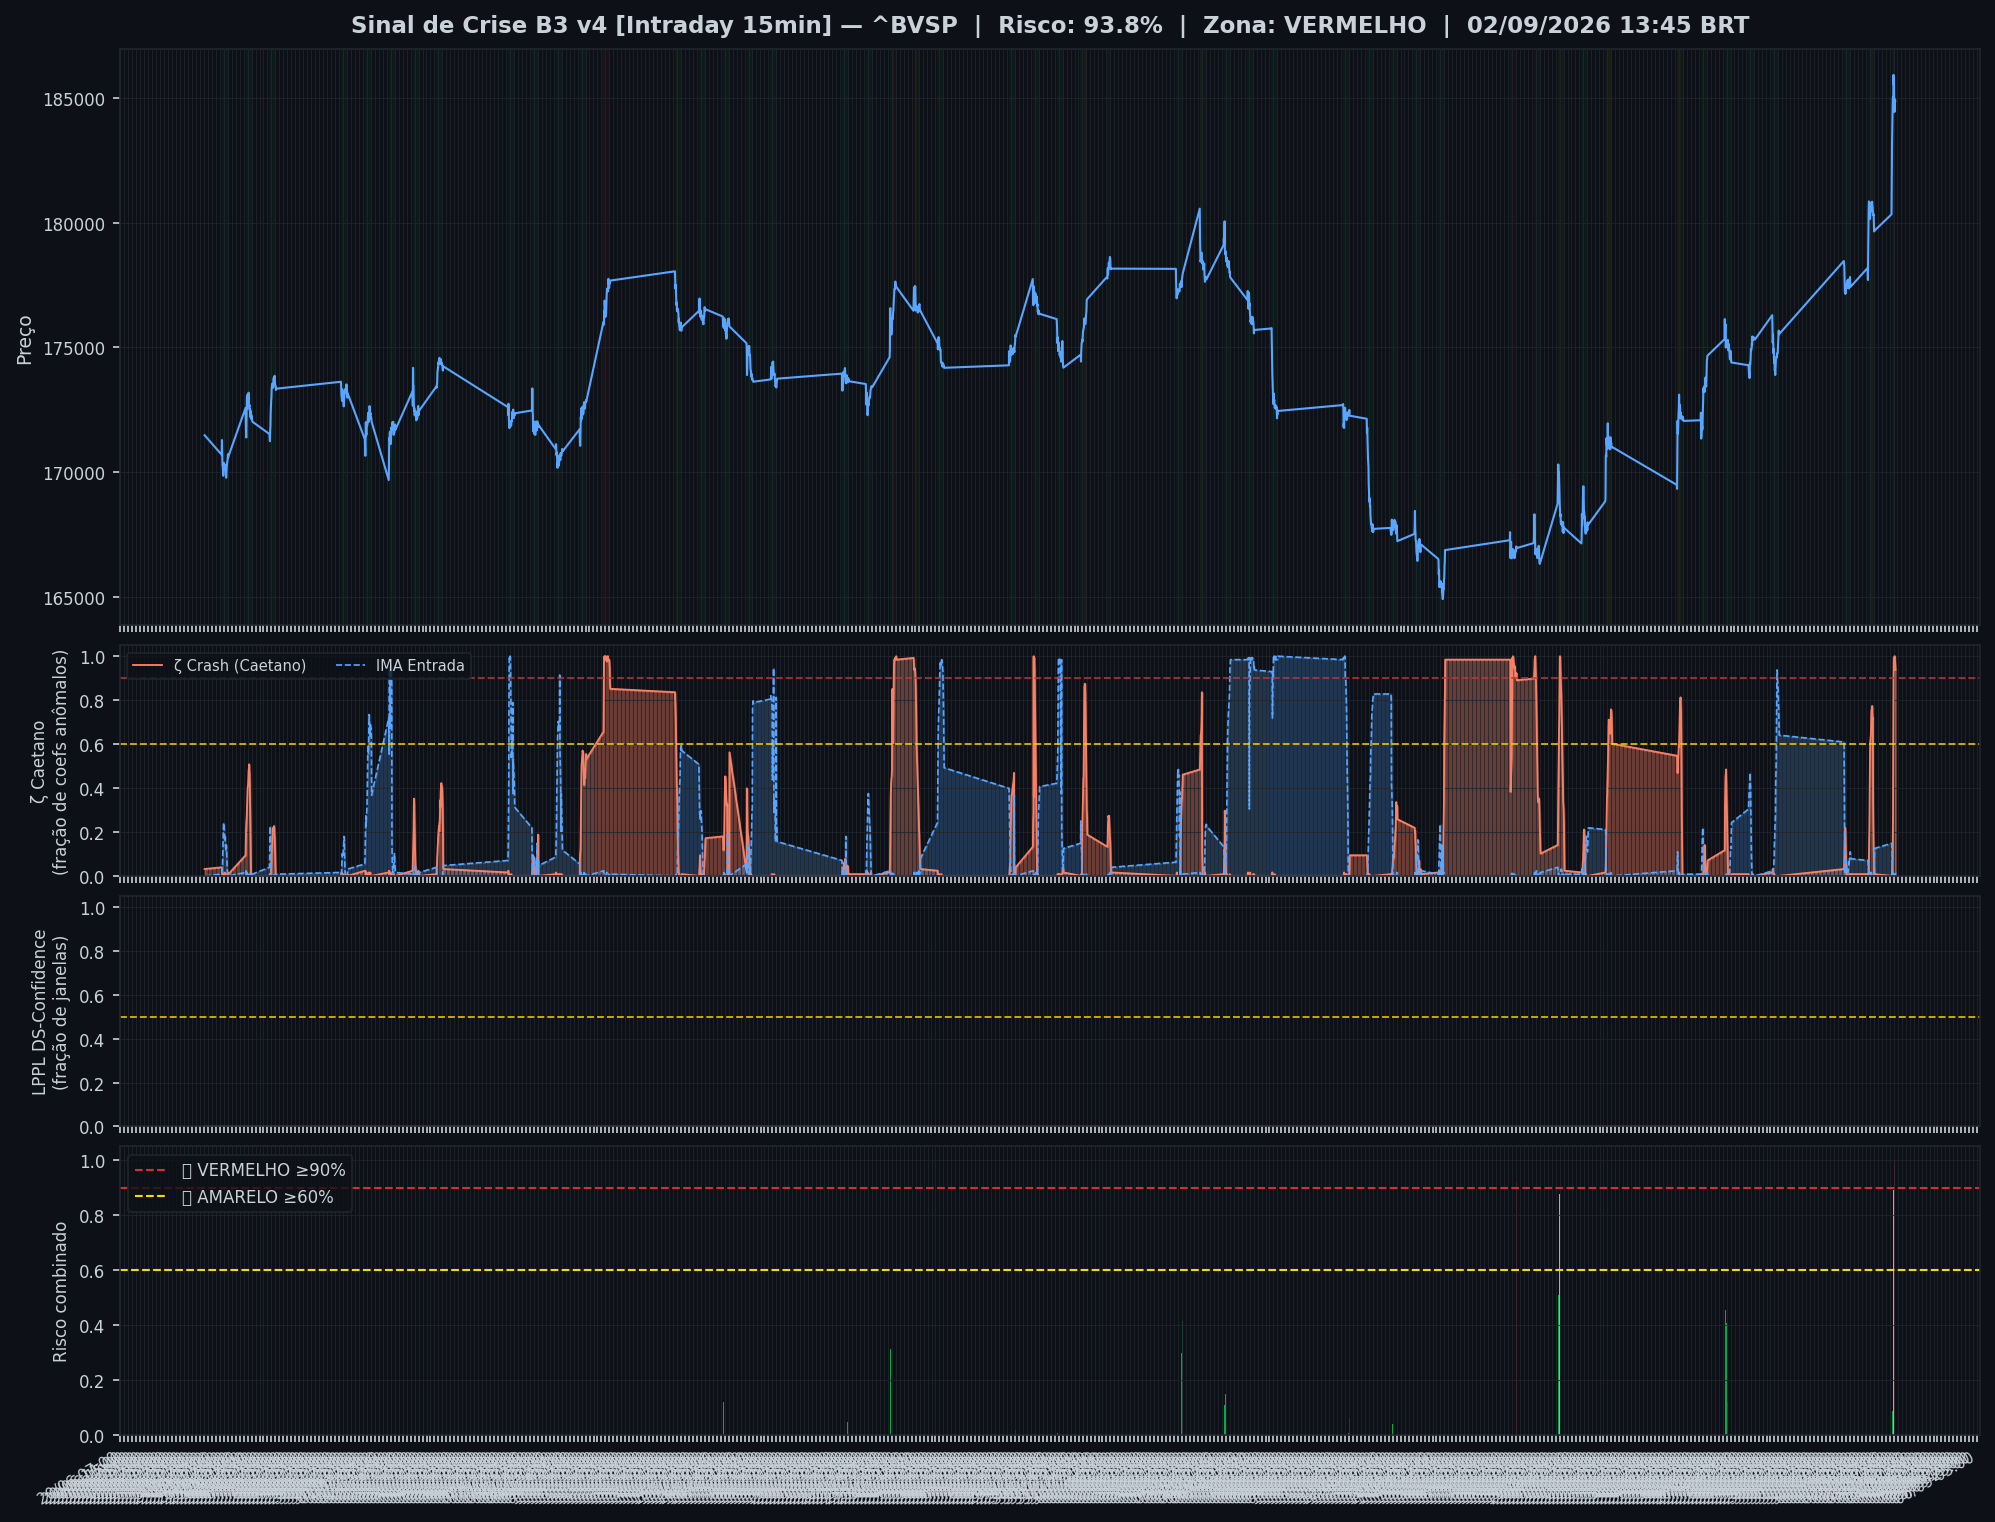
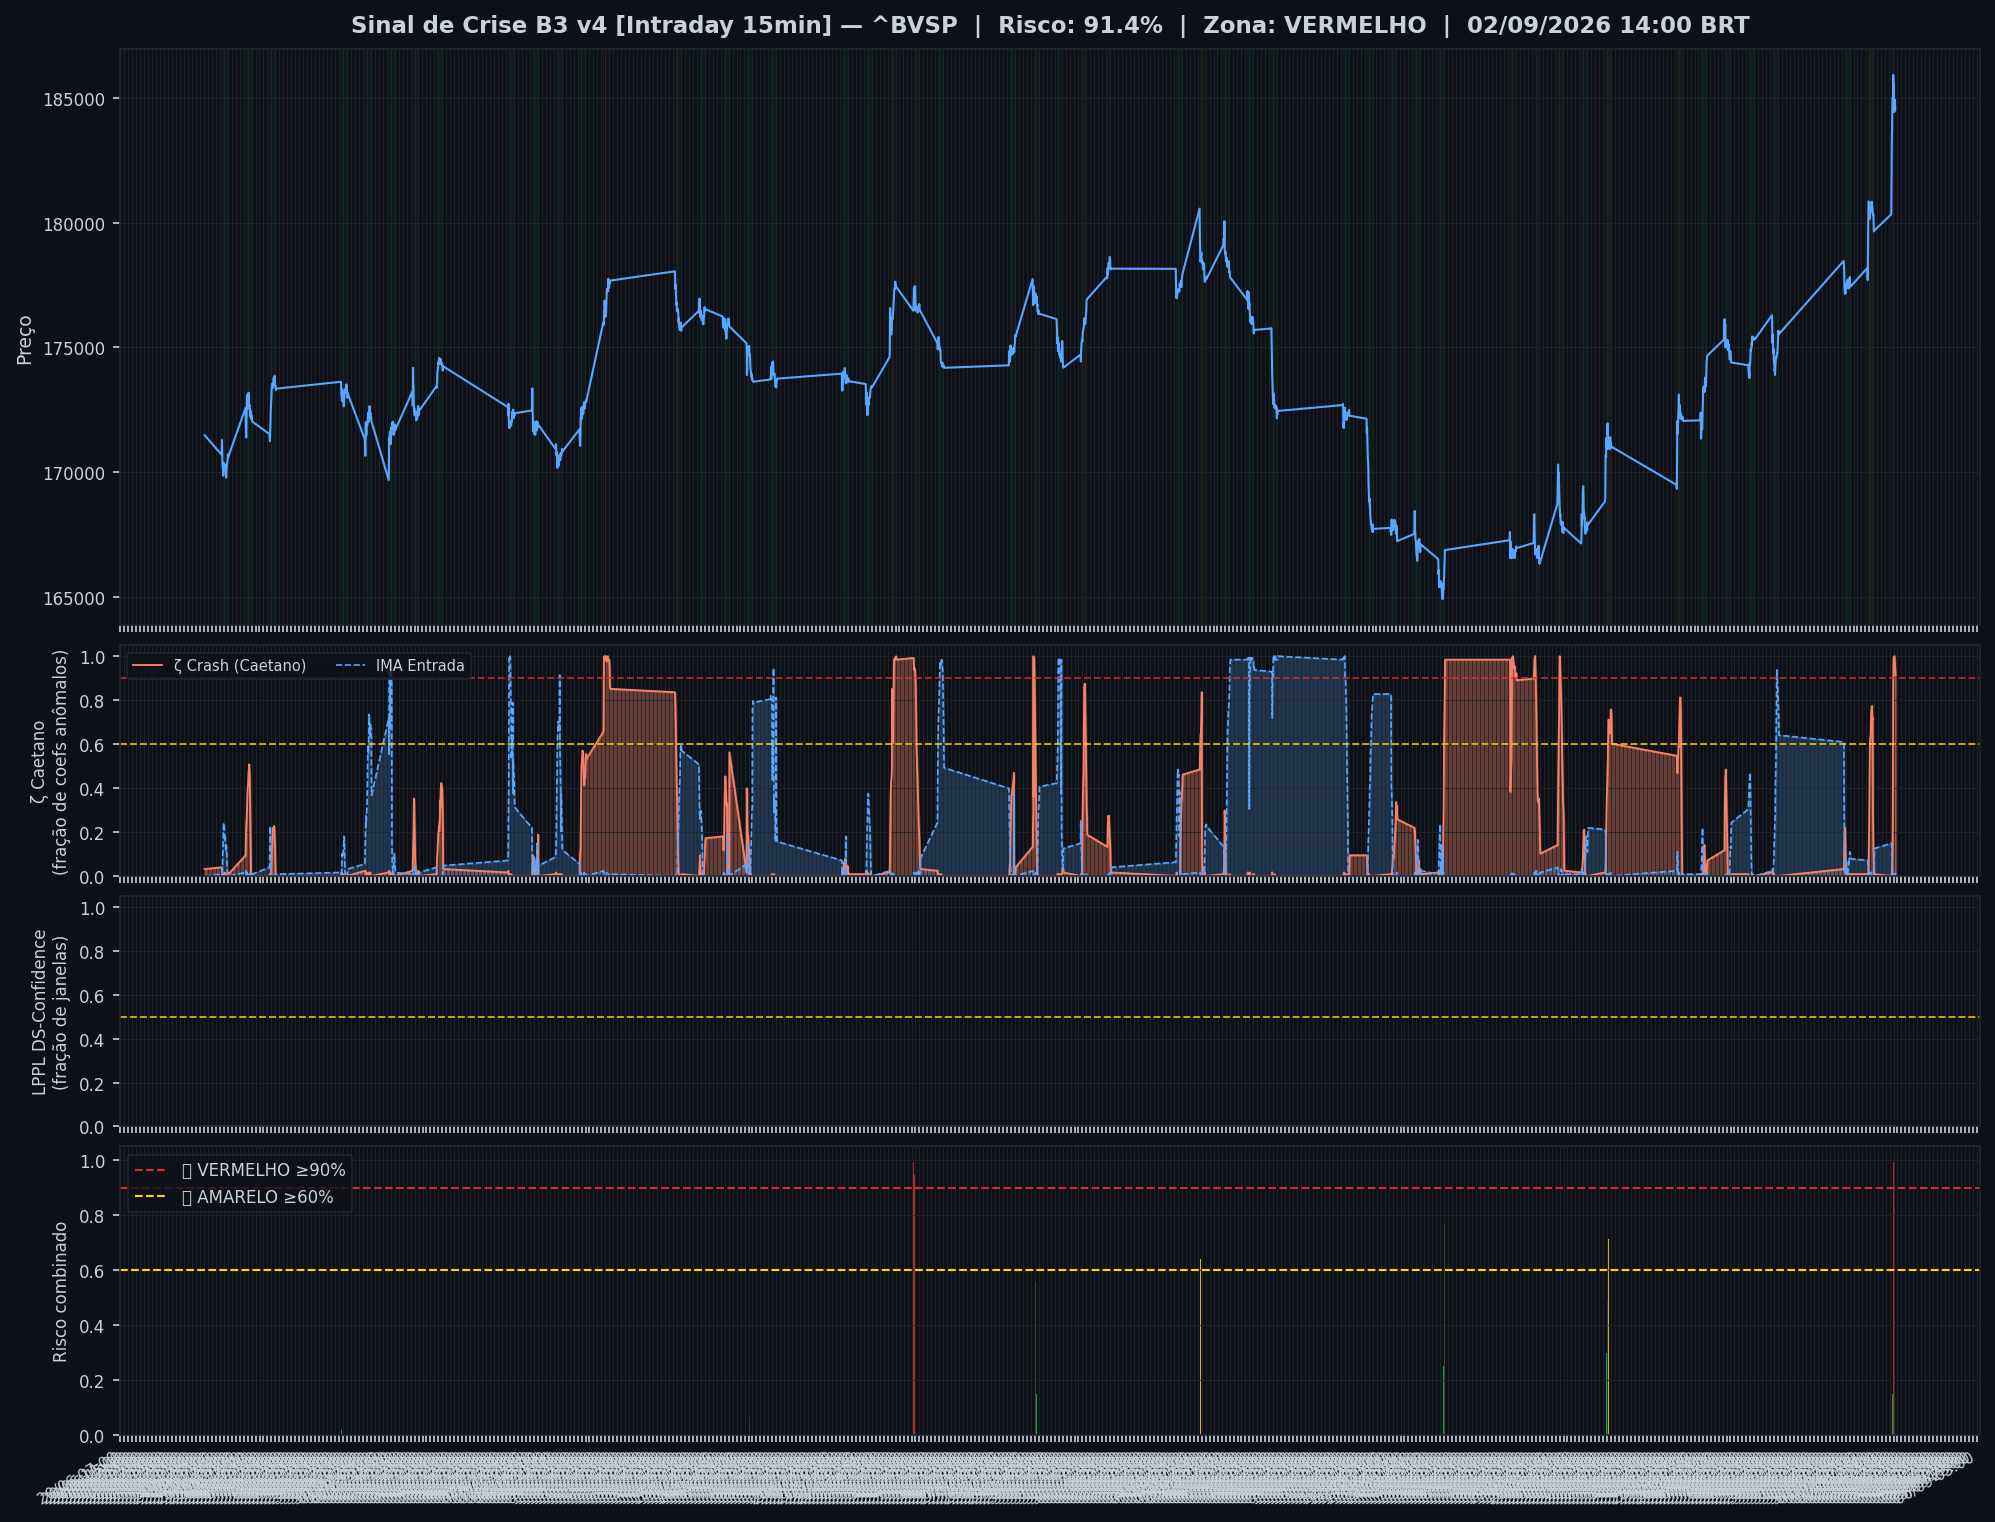
🤖 Auto: Sinal 02/09/2026 14:45

diff --git a/content/intraday/2026-09-02.md b/content/intraday/2026-09-02.md
@@ -1,20 +1,20 @@
 ---
-title: "🔴 Intraday 02/09/2026 13:45 BRT — VERMELHO"
+title: "🔴 Intraday 02/09/2026 14:00 BRT — VERMELHO"
 date: 2026-09-02
 tags: [intraday]
 ---
 
-> [!danger] 🔴 **VERMELHO** — Risco 94% · ▼ -2 p.p. vs leitura anterior
-> `███████████████████░`
+> [!danger] 🔴 **VERMELHO** — Risco 91% · ▼ -2 p.p. vs leitura anterior
+> `██████████████████░░`
 > ALERTA DE CRISE — padrão pré-crise detectado.
 
 
 | Indicador | Valor |
 |---|---|
-| 🔴 ζ Crash — severidade da queda em curso | **94%** |
-| 🔵 ζ Entrada — estrutura de fundo | 2% |
+| 🔴 ζ Crash — severidade da queda em curso | **91%** |
+| 🔵 ζ Entrada — estrutura de fundo | 1% |
 | 🫧 LPPL DS-Confidence | 0% |
-| 📊 Ibovespa | 184.884 pts |
+| 📊 Ibovespa | 184.537 pts |
 
 ![Gráfico do sinal](../graficos/sinal_intraday.png)
 
@@ -22,6 +22,7 @@ tags: [intraday]
 
 | Data | Zona | Risco | IMA Crash | Entrada | LPPL |
 |---|---|---|---|---|---|
+| 2026-09-02 14:00 | 🔴 VERMELHO | **91%** | 91% | 1% | 0% |
 | 2026-09-02 13:45 | 🔴 VERMELHO | **94%** | 94% | 2% | 0% |
 | 2026-09-02 13:30 | 🔴 VERMELHO | **96%** | 96% | 1% | 0% |
 | 2026-09-02 13:15 | 🔴 VERMELHO | **98%** | 98% | 0% | 0% |
@@ -51,7 +52,6 @@ tags: [intraday]
 | 2026-09-01 14:15 | 🟡 AMARELO | **77%** | 77% | 0% | 0% |
 | 2026-09-01 14:00 | 🟡 AMARELO | **77%** | 77% | 0% | 0% |
 | 2026-09-01 13:45 | 🟡 AMARELO | **76%** | 76% | 0% | 0% |
-| 2026-09-01 13:30 | 🟡 AMARELO | **75%** | 75% | 1% | 0% |
 
 ## Monitor Multi-Ativo
 
@@ -59,37 +59,37 @@ tags: [intraday]
 
 | Zona | Ativo | Setor | IMA Crash | IMA Entrada |
 |---|---|---|---|---|
-| 🟢 | **USD/BRL** | Câmbio | 3.9% | 4.7% |
-| 🟢 | **VALE** | Mineração | 2.3% | 9.4% |
-| 🟢 | **PETROBRAS** | Petróleo | 2.3% | 9.4% |
-| 🟢 | **ITAUUNIBANCO** | Financeiro | 2.3% | 9.4% |
-| 🟢 | **PETROBRAS** | Petróleo | 2.3% | 9.4% |
-| 🟢 | **AXIA ENERGIA** | Energia | 2.3% | 9.4% |
-| 🟢 | **BRADESCO** | Financeiro | 2.3% | 9.4% |
-| 🟢 | **B3** | Financeiro | 2.3% | 9.4% |
-| 🟢 | **ITAUSA** | Financeiro | 2.3% | 9.4% |
-| 🟢 | **WEG** | Industrial | 2.3% | 9.4% |
-| 🟢 | **SABESP** | Saneamento | 2.3% | 9.4% |
-| 🟢 | **BTGP BANCO** | Financeiro | 2.3% | 9.4% |
-| 🟢 | **AMBEV S/A** | Consumo | 2.3% | 9.4% |
-| 🟢 | **BRASIL** | Financeiro | 2.3% | 9.4% |
-| 🟢 | **ENEVA** | Energia | 2.3% | 9.4% |
-| 🟢 | **PRIO** | Petróleo | 2.3% | 9.4% |
-| 🟢 | **EQUATORIAL** | Energia | 2.3% | 9.4% |
-| 🟢 | **COPEL** | Energia | 2.3% | 9.4% |
-| 🟢 | **VIBRA** | Energia | 2.3% | 9.4% |
-| 🟢 | **REDE D OR** | Saúde | 2.3% | 9.4% |
-| 🟢 | **ULTRAPAR** | Outros | 2.3% | 9.4% |
-| 🟢 | **LOCALIZA** | Aluguel | 2.3% | 9.4% |
-| 🟢 | **GERDAU** | Siderurgia | 2.3% | 9.4% |
-| 🟢 | **SUZANO S.A.** | Papel/Celulose | 2.3% | 9.4% |
-| 🟢 | **RAIADROGASIL** | Outros | 2.3% | 9.4% |
-| 🟢 | **BBSEGURIDADE** | Financeiro | 2.3% | 9.4% |
-| 🟢 | **EMBRAER** | Outros | 0.0% | 18.8% |
+| 🟢 | **USD/BRL** | Câmbio | 7.0% | 0.0% |
+| 🟢 | **VALE** | Mineração | 3.9% | 4.7% |
+| 🟢 | **PETROBRAS** | Petróleo | 3.9% | 4.7% |
+| 🟢 | **ITAUUNIBANCO** | Financeiro | 3.9% | 4.7% |
+| 🟢 | **PETROBRAS** | Petróleo | 3.9% | 4.7% |
+| 🟢 | **AXIA ENERGIA** | Energia | 3.9% | 4.7% |
+| 🟢 | **BRADESCO** | Financeiro | 3.9% | 4.7% |
+| 🟢 | **B3** | Financeiro | 3.9% | 4.7% |
+| 🟢 | **ITAUSA** | Financeiro | 3.9% | 4.7% |
+| 🟢 | **WEG** | Industrial | 3.9% | 4.7% |
+| 🟢 | **SABESP** | Saneamento | 3.9% | 4.7% |
+| 🟢 | **BTGP BANCO** | Financeiro | 3.9% | 4.7% |
+| 🟢 | **EMBRAER** | Outros | 3.9% | 4.7% |
+| 🟢 | **AMBEV S/A** | Consumo | 3.9% | 4.7% |
+| 🟢 | **BRASIL** | Financeiro | 3.9% | 4.7% |
+| 🟢 | **ENEVA** | Energia | 3.9% | 4.7% |
+| 🟢 | **PRIO** | Petróleo | 3.9% | 4.7% |
+| 🟢 | **EQUATORIAL** | Energia | 3.9% | 4.7% |
+| 🟢 | **COPEL** | Energia | 3.9% | 4.7% |
+| 🟢 | **VIBRA** | Energia | 3.9% | 4.7% |
+| 🟢 | **REDE D OR** | Saúde | 3.9% | 4.7% |
+| 🟢 | **ULTRAPAR** | Outros | 3.9% | 4.7% |
+| 🟢 | **LOCALIZA** | Aluguel | 3.9% | 4.7% |
+| 🟢 | **GERDAU** | Siderurgia | 3.9% | 4.7% |
+| 🟢 | **SUZANO S.A.** | Papel/Celulose | 3.9% | 4.7% |
+| 🟢 | **RAIADROGASIL** | Outros | 3.9% | 4.7% |
+| 🟢 | **BBSEGURIDADE** | Financeiro | 3.9% | 4.7% |
 
 ![Monitor multi-ativo](../graficos/multi_intraday.png)
 
-*Página atualizada em 02/09/2026 14:30 BRT (leitura da barra de 2026-09-02 13:45 BRT).*
+*Página atualizada em 02/09/2026 14:45 BRT (leitura da barra de 2026-09-02 14:00 BRT).*
 
 > [!info]- Como interpretar (clique para expandir)
 > - **ζ Crash**: fração dos coeficientes wavelet acima do corte (Caetano & Yoneyama 2009). Escala absoluta: ζ=0,90 = 90% dos coeficientes anômalos — historicamente, quedas com ζ≥0,90 foram mais fundas e mais longas. **Mede a severidade do movimento em curso, não prevê o início da queda.**

diff --git a/content/index.md b/content/index.md
@@ -8,19 +8,19 @@ tags: [home]
 
 Monitoramento diário e intraday do Ibovespa — **IMA Wavelet** (Prof. Marco Antonio Leonel Caetano, ITA/INSPER) + **LPPL DS-Confidence** (Prof. Didier Sornette, ETH-Zurich).
 
-*Última atualização: 02/09/2026 14:30 BRT · ^BVSP · Intraday 15min · v4*
+*Última atualização: 02/09/2026 14:45 BRT · ^BVSP · Intraday 15min · v4*
 
-> [!danger] 🔴 **VERMELHO** — Risco 94% · ▼ -2 p.p. vs leitura anterior
-> `███████████████████░`
+> [!danger] 🔴 **VERMELHO** — Risco 91% · ▼ -2 p.p. vs leitura anterior
+> `██████████████████░░`
 > ALERTA DE CRISE — padrão pré-crise detectado.
 
 
 | Indicador | Valor |
 |---|---|
-| 🔴 ζ Crash — severidade da queda em curso | **94%** |
-| 🔵 ζ Entrada — estrutura de fundo | 2% |
+| 🔴 ζ Crash — severidade da queda em curso | **91%** |
+| 🔵 ζ Entrada — estrutura de fundo | 1% |
 | 🫧 LPPL DS-Confidence | 0% |
-| 📊 Ibovespa | 184.884 pts |
+| 📊 Ibovespa | 184.537 pts |
 
 **Multi-ativo:** 0% em tensão (0🔴 0🟡 de 27 ativos)
 
@@ -32,7 +32,7 @@ Monitoramento diário e intraday do Ibovespa — **IMA Wavelet** (Prof. Marco An
 
 | Data | Zona | Risco | IMA | LPPL |
 |---|---|---|---|---|
-| [02 Sep 2026](diario/2026-09-02) | 🔴 VERMELHO | **94%** | 94% | 0% |
+| [02 Sep 2026](diario/2026-09-02) | 🔴 VERMELHO | **91%** | 91% | 0% |
 | [01 Sep 2026](diario/2026-09-01) | 🟢 VERDE | **1%** | 1% | 0% |
 
 ## Navegação

diff --git a/content/historico.md b/content/historico.md
@@ -7,6 +7,7 @@ tags: [historico]
 
 | Data | Modo | Zona | Risco | IMA | LPPL |
 |---|---|---|---|---|---|
+| 2026-09-02 14:00 | intraday | 🔴 VERMELHO | 91% | 91% | 0% |
 | 2026-09-02 13:45 | intraday | 🔴 VERMELHO | 94% | 94% | 0% |
 | 2026-09-02 13:30 | intraday | 🔴 VERMELHO | 96% | 96% | 0% |
 | 2026-09-02 13:15 | intraday | 🔴 VERMELHO | 98% | 98% | 0% |
